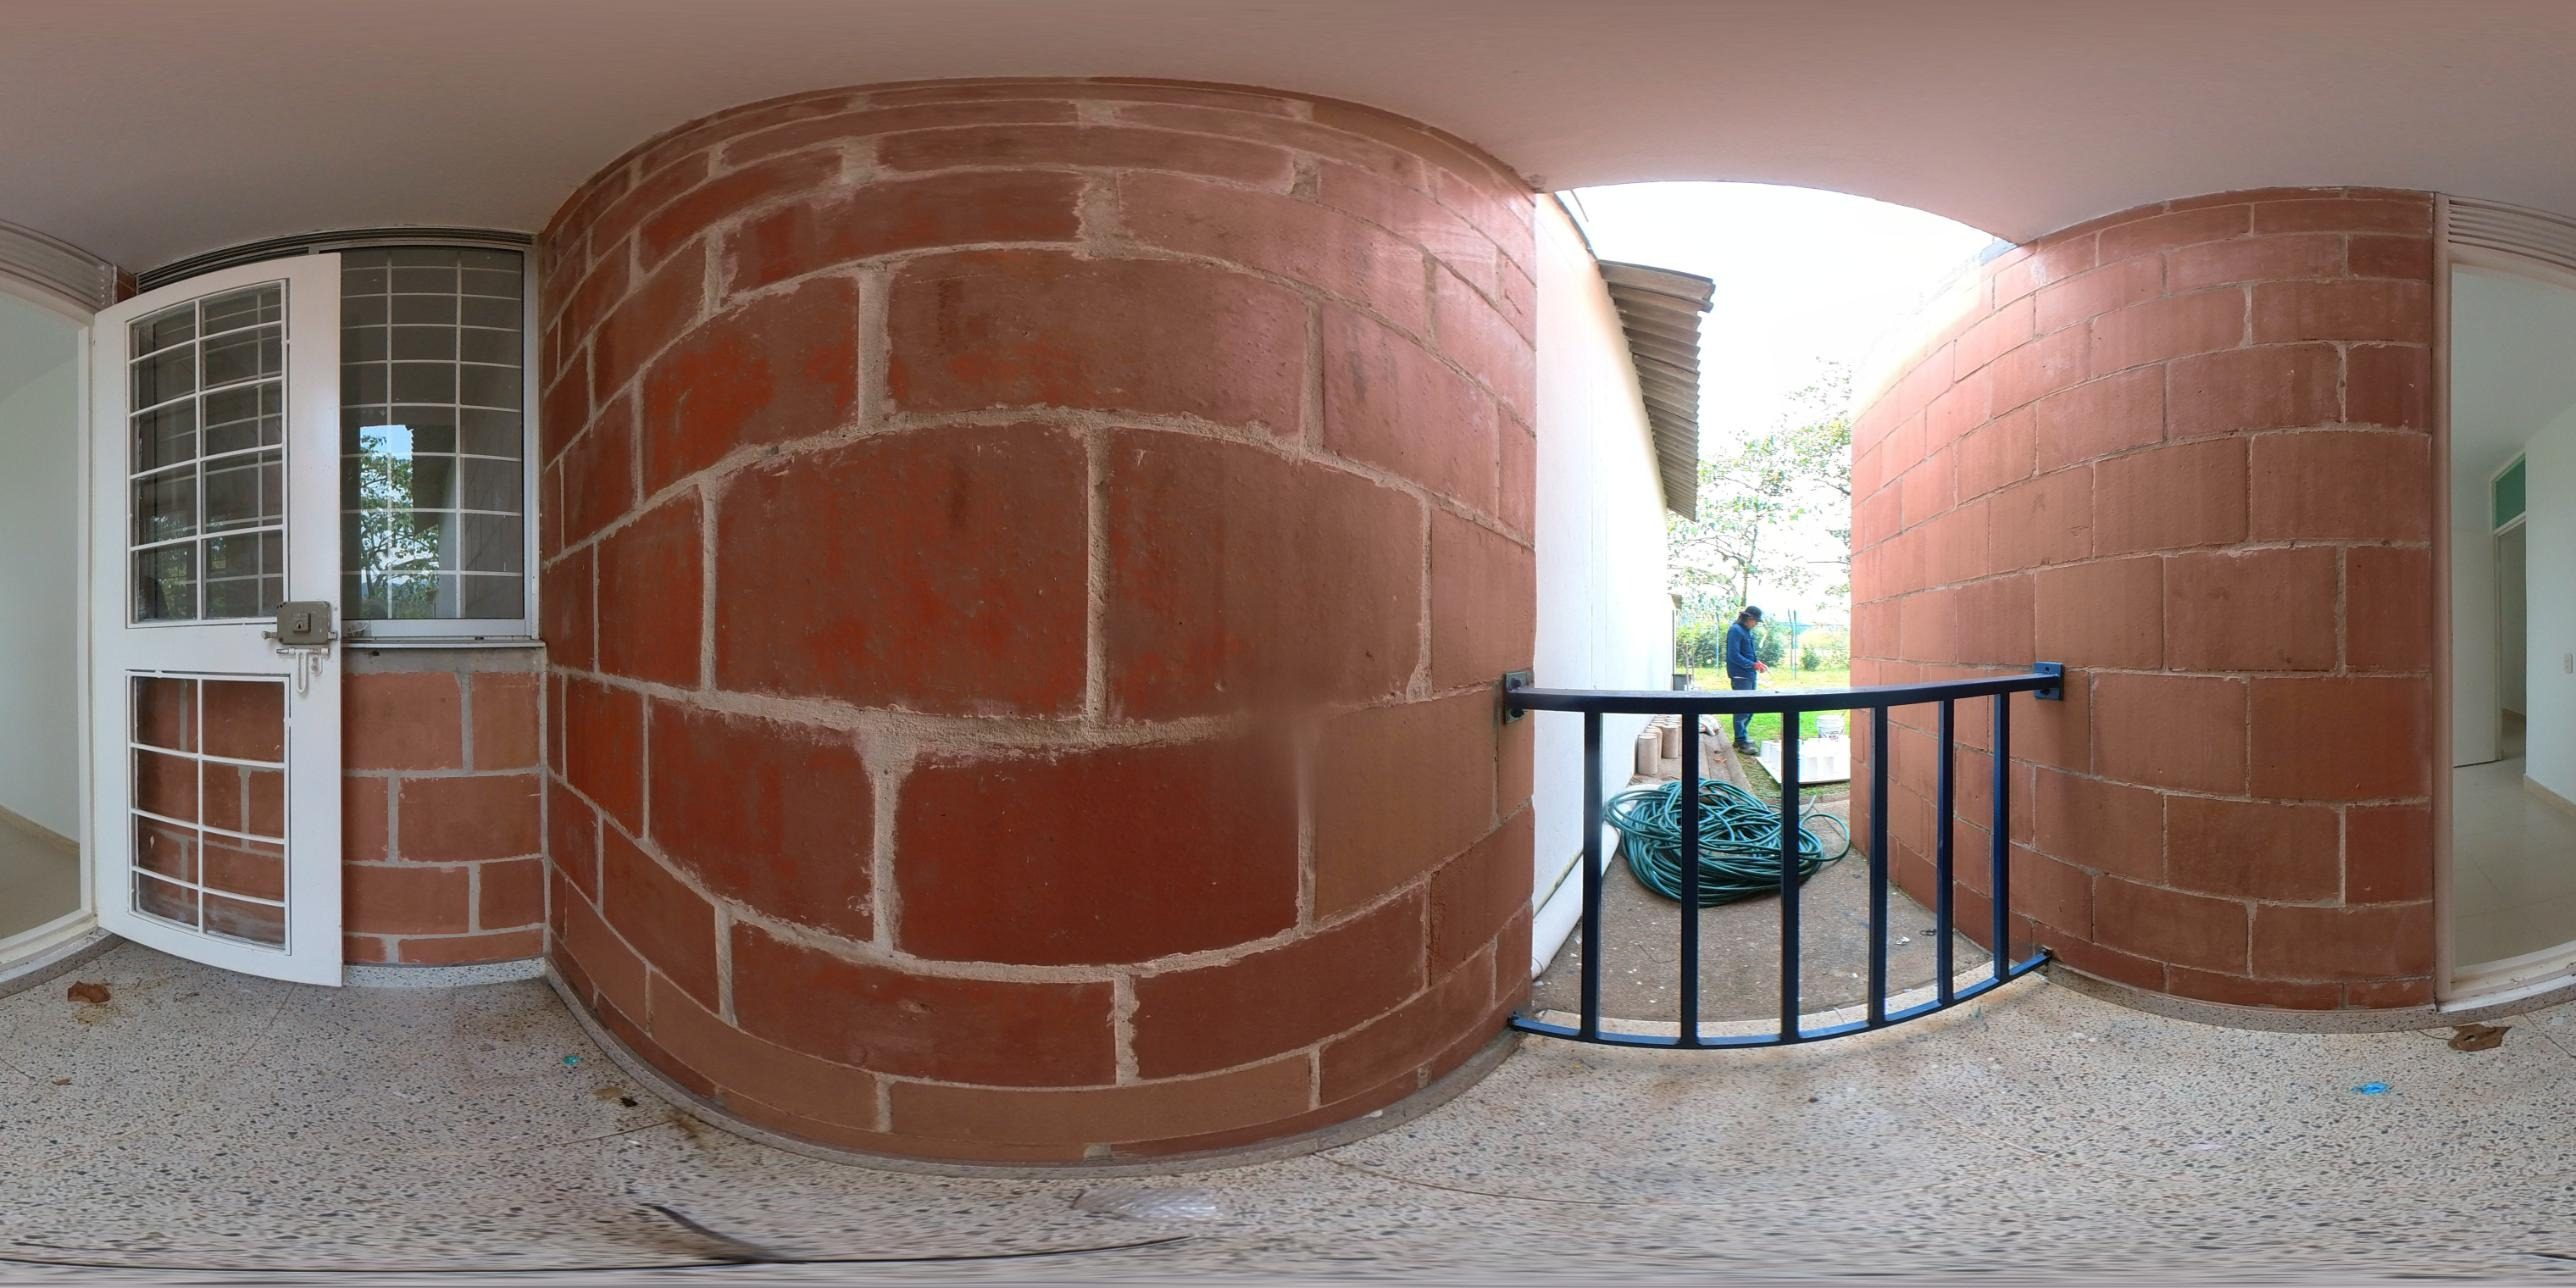
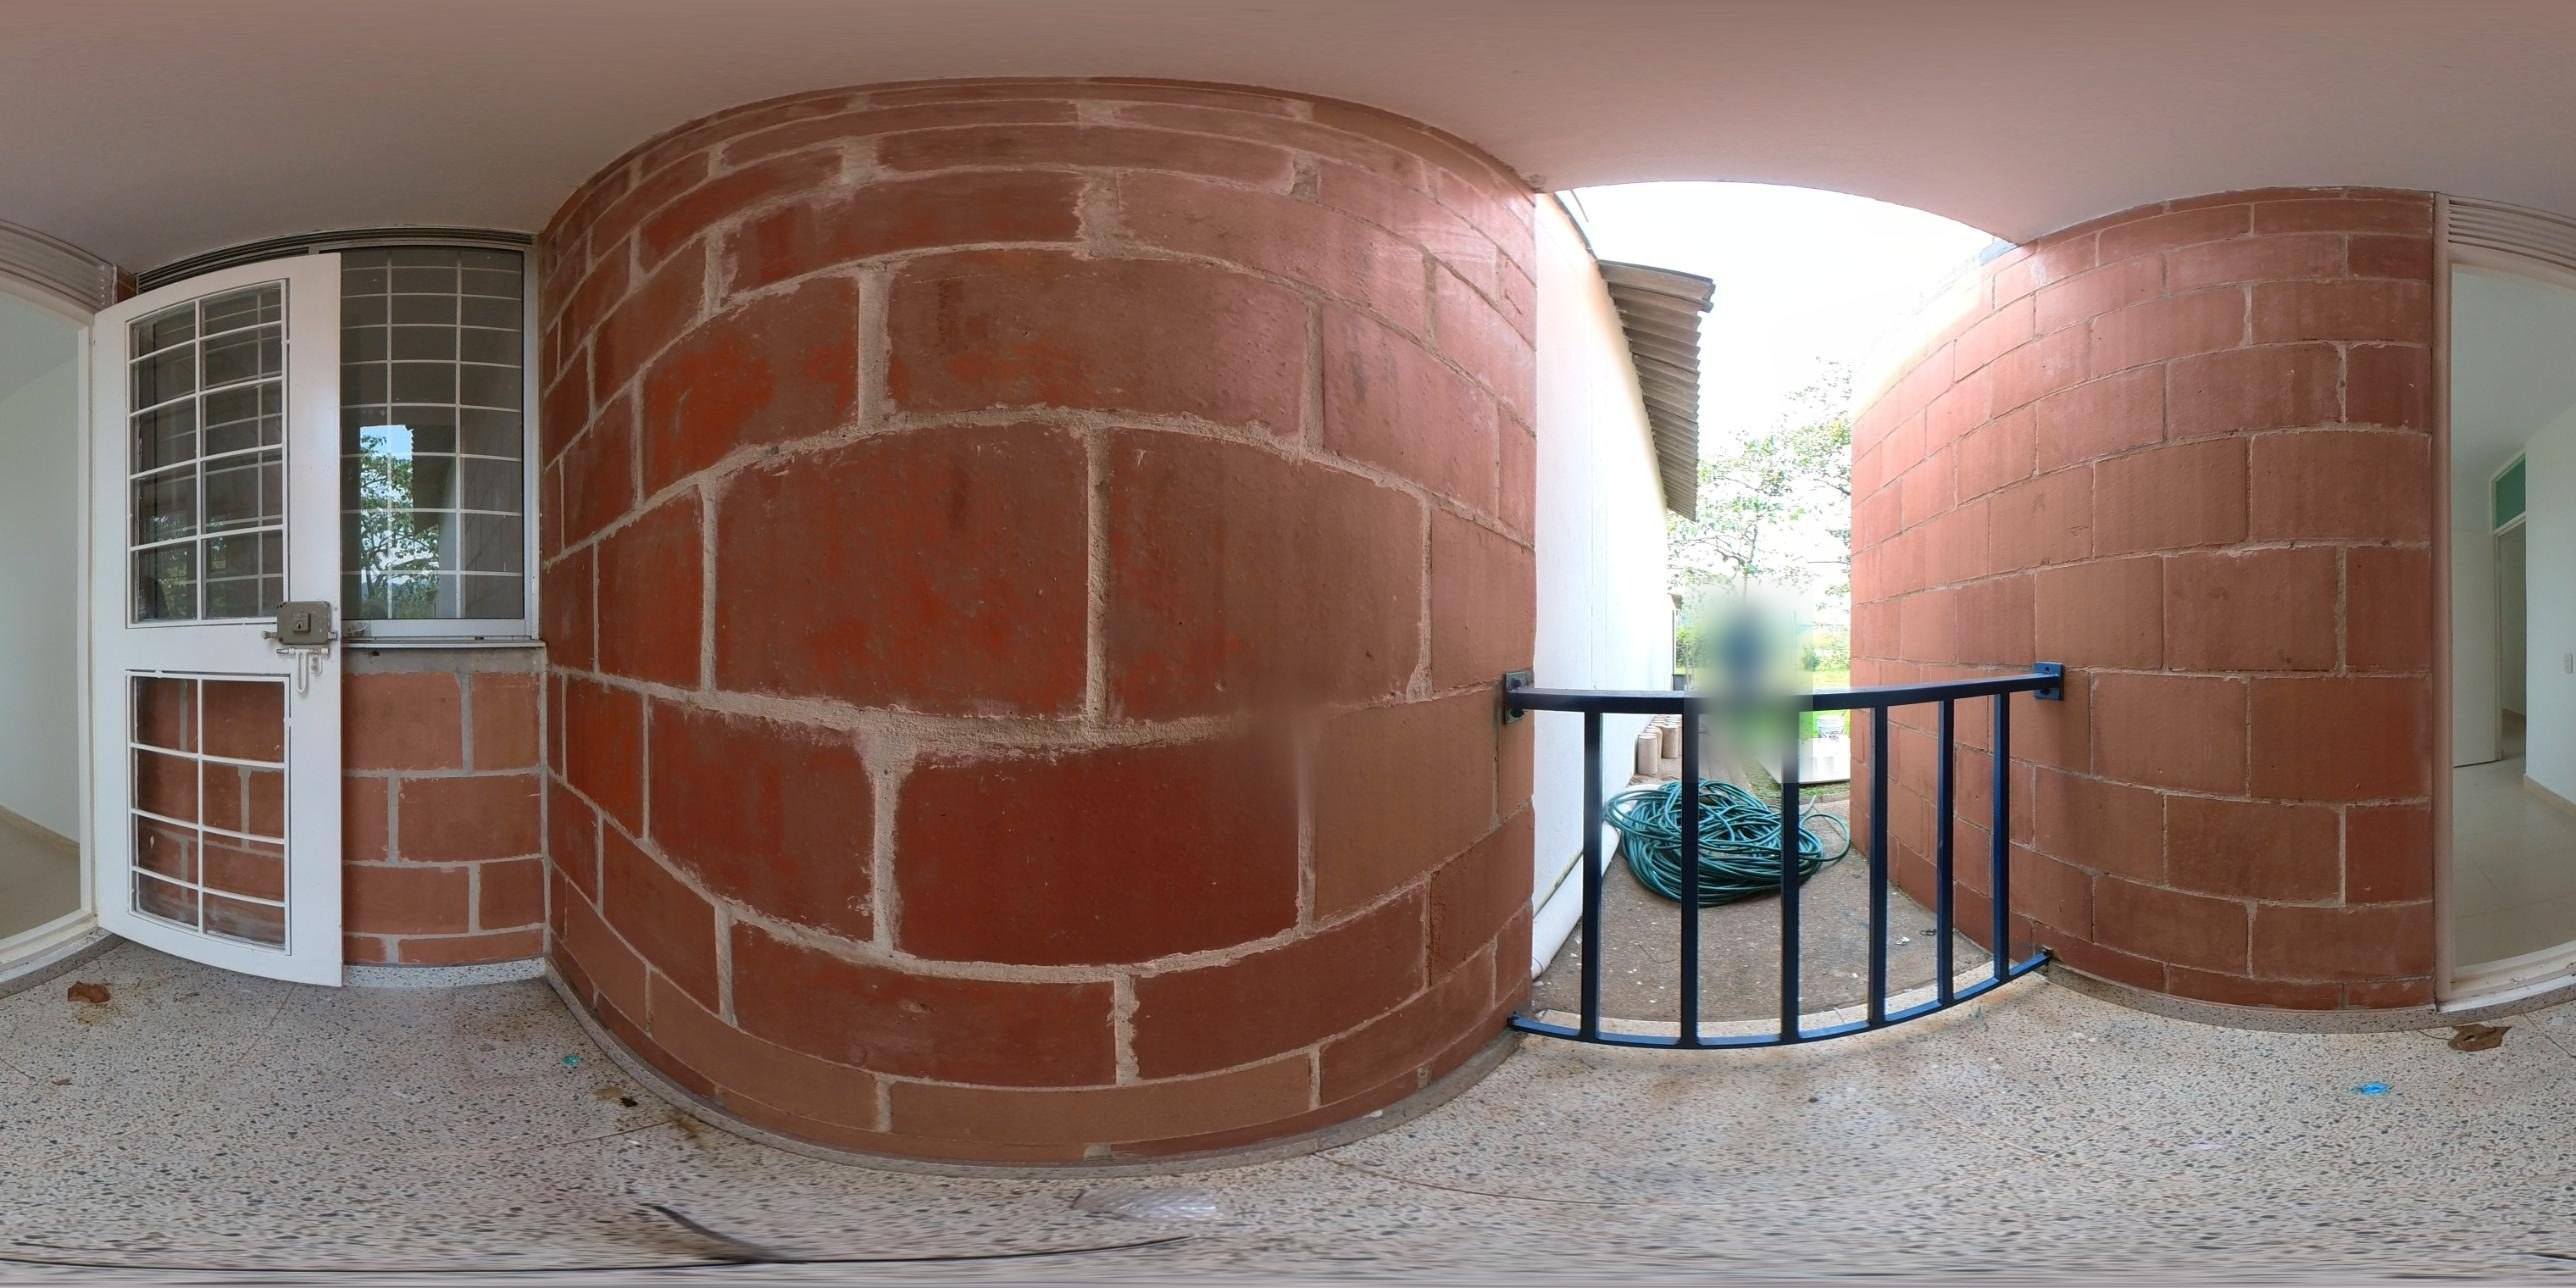
Casa Quinta La Llanerita (galería y tour 360) y privacidad en fotos 360
Difumina personas lejanas y placas en los tours de Rosa Blanca, Barcelona,
apartamento Ciudad Jardín y Casa Quinta.

Claude-Session: https://claude.ai/code/session_01ME6q7YMD2BjcjTouMn4UCD

Changed region(s): [[0.6522, 0.4658, 0.7143, 0.6211]]

diff --git a/propiedades/js/01-datos.js b/propiedades/js/01-datos.js
@@ -144,5 +144,29 @@ const PROPIEDADES = [
     ficha:[["Tipo","Apartamento, primer piso"],["Estado","Usado"],["Habitaciones","3, una con balcón propio"],["Baños","1"],["Piso","1, sin escaleras"]],
     caracts:["Primer piso, sin escaleras","Sala con salida a balcón","Habitación con balcón propio","Zona residencial consolidada"],
     cerca:["Tiendas Ara y D1, a menos de 1 minuto","Megacolegio Luis Carlos Galán, a 5 minutos","Centro Comercial Viva Villavicencio, a 5 km"]
+  },
+  {
+    id:"casa-quinta-llanerita", tipo:"Casa", ciudad:"Villavicencio",
+    nombre:"Casa Quinta La Llanerita", precioCorto:"$600M", precio:"$600.000.000",
+    ubicacion:"Vereda La Llanerita · Villavicencio, Meta",
+    negocio:"Venta",
+    fotos:16, hab:3, ban:2,
+    tour360:{inicio:"patio", escenas:[
+      {id:"patio", titulo:"Patio frontal", yaw:-40, flechas:[{a:"patio-2", yaw:-20, pitch:-22, mira:-48}, {a:"huerto", yaw:85, pitch:-8, mira:-80}, {a:"porche", yaw:-5, pitch:-3, mira:-85}, {a:"corredor", yaw:-80, pitch:-6, mira:160}]},
+      {id:"patio-2", titulo:"Patio y piscina", flechas:[{a:"patio", yaw:132, pitch:-14, mira:160}, {a:"piscina", yaw:-48, pitch:-12, mira:170}, {a:"zona-social", yaw:-112, pitch:-6, mira:-60}]},
+      {id:"piscina", titulo:"Piscina", flechas:[{a:"patio-2", yaw:-10, pitch:-12, mira:132}]},
+      {id:"huerto", titulo:"Huerto de frutales", flechas:[{a:"patio", yaw:100, pitch:-8, mira:-95}]},
+      {id:"porche", titulo:"Porche", flechas:[{a:"patio", yaw:95, pitch:-10, mira:175}, {a:"alcoba-principal", yaw:-178, pitch:-3, mira:-43}]},
+      {id:"alcoba-principal", titulo:"Alcoba principal", flechas:[{a:"porche", yaw:137, pitch:-3, mira:2}, {a:"bano-principal", yaw:172, pitch:-8, mira:167}]},
+      {id:"bano-principal", titulo:"Baño de la alcoba principal", flechas:[{a:"alcoba-principal", yaw:-13, pitch:-10, mira:-8}]},
+      {id:"corredor", titulo:"Corredor", flechas:[{a:"patio", yaw:-20, pitch:-14, mira:100}, {a:"habitacion-azul", yaw:166, pitch:-3, mira:-30}, {a:"habitacion-camas", yaw:-172, pitch:-12, mira:42}]},
+      {id:"habitacion-azul", titulo:"Habitación azul", flechas:[{a:"corredor", yaw:150, pitch:-3, mira:-14}, {a:"bano", yaw:75, pitch:-8, mira:72}]},
+      {id:"bano", titulo:"Baño", flechas:[{a:"habitacion-azul", yaw:-108, pitch:-8, mira:-105}]},
+      {id:"habitacion-camas", titulo:"Habitación de dos camas", flechas:[{a:"corredor", yaw:-138, pitch:-8, mira:8}]},
+      {id:"zona-social", titulo:"Zona social", flechas:[{a:"patio-2", yaw:120, pitch:-10, mira:68}, {a:"cocina", yaw:165, pitch:-15, mira:30}]},
+      {id:"cocina", titulo:"Cocina", flechas:[{a:"zona-social", yaw:-150, pitch:-12, mira:-15}]}
+    ]},
+    ficha:[["Tipo","Casa quinta"],["Habitaciones","3"],["Baños","2"],["Cocina","Sí"],["Sala comedor","Sí"]],
+    caracts:["Cocina","Sala comedor","3 habitaciones","2 baños"]
   }
 ];
